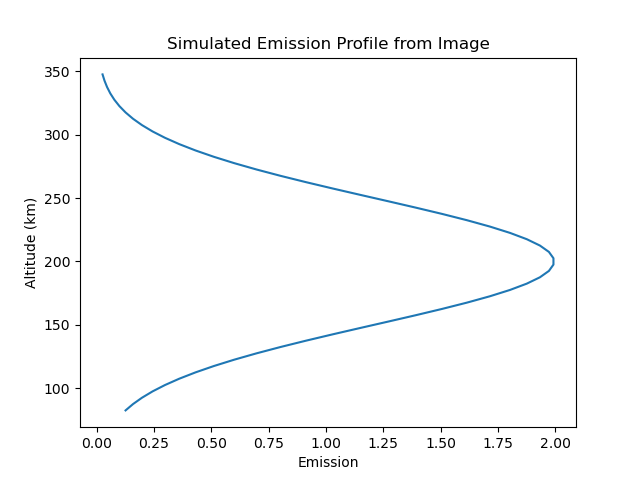
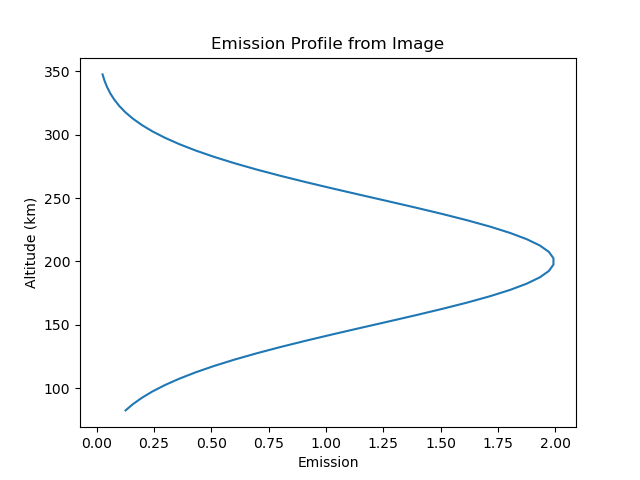
Updated graph labels

Changed region(s): [[0.25, 0.0625, 0.7812, 0.125]]

diff --git a/emission_profile.py b/emission_profile.py
@@ -30,7 +30,7 @@ def main():
     emissionAltitudes = []
     for i in range(350000, 0, -5000):
         emission.append(250000 / (50000 * math.sqrt(2 * math.pi)) * \
-                         math.exp(-1 / 2 * (((i - 2500) - 200000) / 50000) ** 2))
+                         math.exp(-1 / 2 * (((i - 2500) - 300000) / 50000) ** 2))
         emissionAltitudes.append(i / 1000)
     
     # Generates the image and sets up its y-axis labels
@@ -55,23 +55,23 @@ def main():
     imgAx.set_yticks(yAxisLocations, yAxisValues)
     imgAx.set_title("Generated Image from Simulated Emission Profile")
     imgAx.set_ylabel("Tangent Point Altitude (km)")
-    imgFig.savefig("research/mighti-practice/graphs/Simulated Image (200km Peak).png")
+    imgFig.savefig("research/mighti-practice/graphs/Simulated Image (300km Peak).png")
 
     emFig, emAx = plt.subplots()
     emAx.set_title("Simulated Emission Profile")
     emAx.set_xlabel("Emission (modeled after a photons/cm^3/s emission graph)")
     emAx.set_ylabel("Altitude (km)")
     emAx.plot(emission, emissionAltitudes)
-    emFig.savefig("research/mighti-practice/graphs/Simulated Emission Profile (200km Peak).png")
+    emFig.savefig("research/mighti-practice/graphs/Simulated Emission Profile (300km Peak).png")
 
     profile = generateEmissionProfile(positions[0], lookVectors, np.delete(image, 1, axis=1))
     
     fig1, ax1 = plt.subplots()
-    ax1.set_title("Simulated Emission Profile from Image")
+    ax1.set_title("Emission Profile from Image")
     ax1.set_xlabel("Emission")
     ax1.set_ylabel("Altitude (km)")
     ax1.plot(profile[:, 0], profile[:, 1] / 1000)
-    fig1.savefig("research/mighti-practice/graphs/Simulated Emission Profile from Image (200km Peak).png")
+    fig1.savefig("research/mighti-practice/graphs/Simulated Emission Profile from Image (300km Peak).png")
 
     # distances = getLayerDistances(positions[0], lookVectors[0], 5000, 300000)
     # distancesValues = [[], []]
